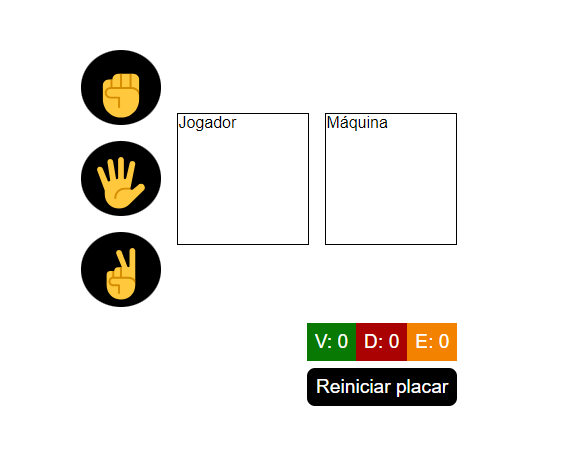
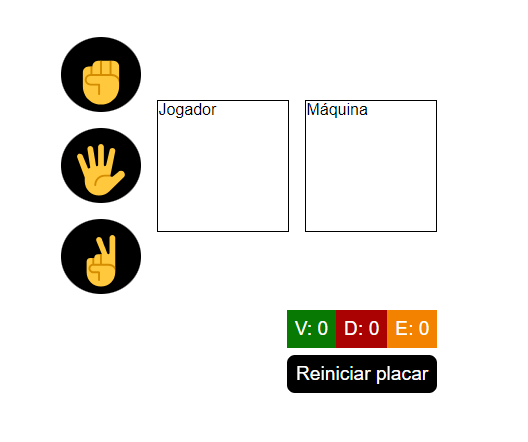
Changing img width

Changed region(s): [[0.0909, 0.0588, 0.8182, 0.5294], [0.5455, 0.6765, 0.8485, 0.9118], [0.0909, 0.5, 0.303, 0.6765]]

diff --git a/src/components/Projects.tsx b/src/components/Projects.tsx
@@ -2,6 +2,9 @@ import { Card } from "./Card";
 import Slider from "react-slick";
 import "slick-carousel/slick/slick.css";
 import "slick-carousel/slick/slick-theme.css";
+import funstartBanner from '/funstart-banner.png';
+import jokenpoBanner from '/jokenpo-banner.png';
+import projeto from '/projeto.png'
 
 export const Projects = () => {
 
@@ -19,7 +22,7 @@ export const Projects = () => {
                 breakpoint: 1024,
                 settings: {
                     slidesToShow: 3,
-                    slidesToScroll: 3,
+                    slidesToScroll: 2,
                     infinite: true,
                     dots: true
                 }
@@ -29,14 +32,16 @@ export const Projects = () => {
                 settings: {
                     slidesToShow: 2,
                     slidesToScroll: 2,
-                    initialSlide: 2
+                    initialSlide: 2,
+                    columns: 2
                 }
             },
             {
                 breakpoint: 480,
                 settings: {
-                    slidesToShow: 1,
-                    slidesToScroll: 1
+                    slidesToShow: 2,
+                    slidesToScroll: 1,
+                    columns: 2
                 }
             }
         ]
@@ -47,14 +52,10 @@ export const Projects = () => {
             <h2 className="projects-title">Projetos</h2>
             <div className="card-container">
                 <Slider {...settings}>
-                    <Card img={"./funstart-banner.png"} alt="FunStart banner" title={"FunStart Games"} deployLink="#" codeLink="#" />
-                    <Card img={"./jokenpo-banner.PNG"} alt="Jokenpô banner" title={"Jokenpô game"} deployLink="https://santiagohenrique.github.io/jokenpo_react/" codeLink="https://github.com/santiagohenrique/jokenpo_react"  />
-                    <Card img={"./funstart-banner.png"} alt="FunStart banner" title={"Slide 3"} deployLink="#" codeLink="#"  />
-                    <Card img={"./funstart-banner.png"} alt="FunStart banner" title={"Slide 4"} deployLink="#" codeLink="#"  />
-                    <Card img={"./funstart-banner.png"} alt="FunStart banner" title={"Slide 5"} deployLink="#" codeLink="#"  />
-                    <Card img={"./funstart-banner.png"} alt="FunStart banner" title={"Slide 6"} deployLink="#" codeLink="#"  />
-                    <Card img={"./funstart-banner.png"} alt="FunStart banner" title={"Slide 7"} deployLink="#" codeLink="#"  />
-                    <Card img={"./funstart-banner.png"} alt="FunStart banner" title={"Slide 8"} deployLink="#" codeLink="#"  />
+                    <Card img={funstartBanner} alt="FunStart banner" title={"FunStart Games"} deployLink="#" codeLink="#" />
+                    <Card img={jokenpoBanner} alt="Jokenpô banner" title={"Jokenpô game"} deployLink="https://santiagohenrique.github.io/jokenpo_react/" codeLink="https://github.com/santiagohenrique/jokenpo_react"  />
+                    <Card img={projeto} alt="Projeto em desenvolvimento" title={"Projeto"} deployLink="#" codeLink="#" />
+                    <Card img={projeto} alt="Projeto em desenvolvimento" title={"Projeto"} deployLink="#" codeLink="#" />
                 </Slider>
             </div>
         </section>

diff --git a/src/components/About.tsx b/src/components/About.tsx
@@ -1,4 +1,6 @@
 import { SocialMedia } from "./SocialMedia";
+import personalPhoto from "/foto_henrique.jpg"
+import personalCV from '/Henrique_S_Pires.pdf'
 
 export const About = () => {
     return(
@@ -6,7 +8,7 @@ export const About = () => {
             <h2 className='about-title'>Sobre</h2>
             <div className='main-info'>
                 <div className='photo-container'>
-                    <img src="./foto_henrique.jpg" alt='' />
+                    <img src={personalPhoto} alt='' />
                 </div>
                 <div className='personal-info'>
                     <div className='presentation'>
@@ -19,11 +21,11 @@ export const About = () => {
                         <ul>
                             <li>- Estudante de Análise e Desenvolvimento de Sistemas</li>
                             <li>- Focado em desenvolvimento Web</li>
-                            <li>- Experiência com algumas tecnologias, tais como: JavaScript, HTML, CSS, Java, React, SpringBoot, MySQL, Postgre, Git</li>
+                            <li>- Experiência com algumas tecnologias, tais como: JavaScript, Java, React, SpringBoot, HTML, CSS, MySQL, PostgreSQL</li>
                         </ul>
                     </div>
                     <div className='download-container'>
-                        <a href='/Henrique_S_Pires.pdf' className='download-link' target='_blank'>
+                        <a href={personalCV} className='download-link' target='_blank'>
                             <button className='download-button'>
                                 Visualizar CV
                             </button>

diff --git a/src/App.css b/src/App.css
@@ -233,11 +233,11 @@ button.download-button:hover, .submit-btn:hover{
 
 .card-img{
   display: flex;
-  height: 150px;
+  max-height: 125px;
 }
 
 .card-img img{
-  max-width: 100%;
+  width: 100%;
   object-fit: cover;
 }
 
@@ -245,7 +245,7 @@ button.download-button:hover, .submit-btn:hover{
   display: flex;
   flex-direction: column;
   gap: 0.8rem;
-  padding: 0 0 1rem 1rem;
+  padding: 0 1rem 1rem 1rem;
 }
 
 .card-title {
@@ -362,6 +362,26 @@ button.download-button:hover, .submit-btn:hover{
 
   #contato form{
     width: 90%;
+  }
+
+}
+
+@media (min-width: 600px) and (max-width: 768px) {
+
+  .presentation{
+    max-width: 420px;
+  }
+
+  #contato form{
+    width: 80%;
+  }
+}
+
+/* Medium devices (landscape tablets, 768px and up) */
+@media (min-width: 768px) and (max-width: 992px) {
+
+  #contato form{
+    width: 70%;
   }
 
 }

diff --git a/index.html b/index.html
@@ -5,6 +5,8 @@
     <meta name="viewport" content="width=device-width, initial-scale=1.0" />
     <link rel="preconnect" href="https://fonts.googleapis.com">
     <link rel="preconnect" href="https://fonts.gstatic.com" crossorigin>
+    <link rel="shortcut icon" href="./public/icon.svg" type="image/x-icon">
+    
     <link href="https://fonts.googleapis.com/css2?family=Source+Sans+3:ital,wght@0,200..900;1,200..900&display=swap" rel="stylesheet">
 
     <title>Henrique Santiago - Portfólio</title>
